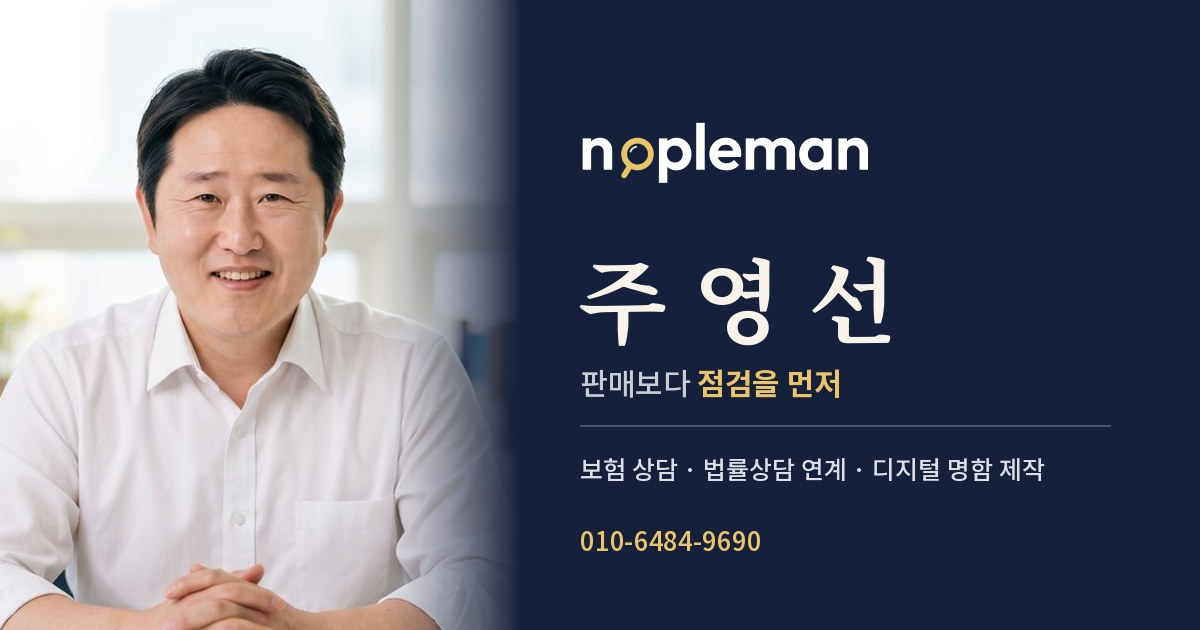
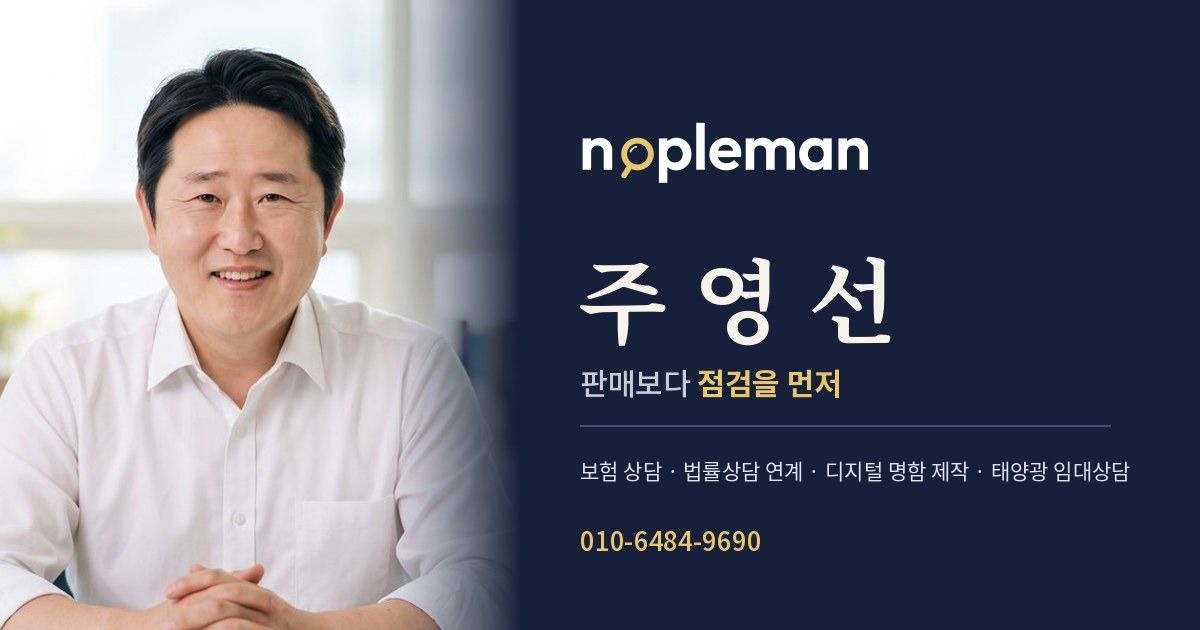
카톡 미리보기 문구·이미지에 태양광 임대상담 추가
Claude-Session: https://claude.ai/code/session_01MujumZw1PP7Nd68Y9K4AjM

Changed region(s): [[0.4625, 0.7238, 0.9558, 0.7841]]

diff --git a/card/index.html b/card/index.html
@@ -7,7 +7,7 @@
 <meta name="description" content="판매보다 점검을 먼저. 실손보험 어드바이저 노플맨 주영선의 디지털 명함입니다.">
 <meta property="og:type" content="website">
 <meta property="og:title" content="노플맨 주영선 | 판매보다 점검을 먼저">
-<meta property="og:description" content="보험 상담 · 법률상담 연계 · 디지털 명함 제작">
+<meta property="og:description" content="보험 상담 · 법률상담 연계 · 디지털 명함 제작 · 태양광 임대상담">
 <meta property="og:url" content="https://nopleman-card.netlify.app/">
 <meta property="og:image" content="https://nopleman-card.netlify.app/og-image.jpg">
 <meta property="og:image:width" content="1200">
